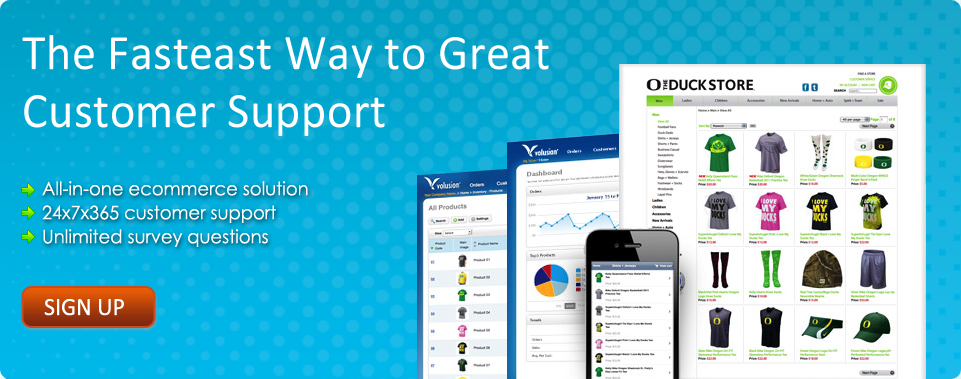
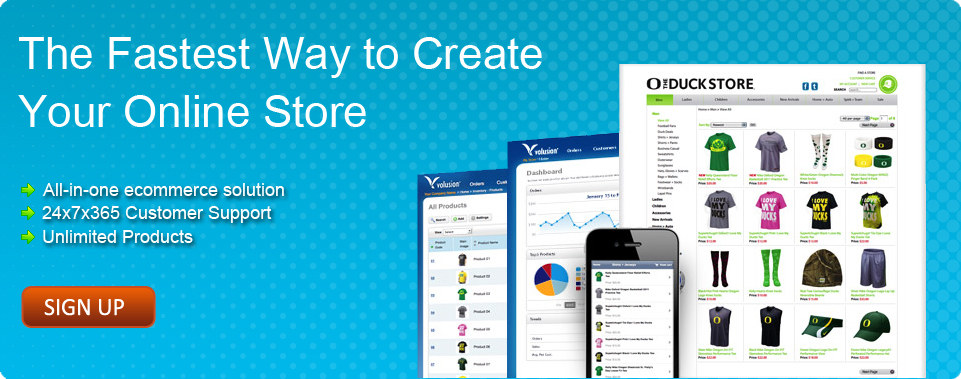
added image and css changes

diff --git a/public/stylesheets/style.css b/public/stylesheets/style.css
@@ -121,7 +121,8 @@ h3 {color: #1B6FB6;font-weight: 400;}
 .footer ul.foo-menu li a { text-decoration:none; color:#000000;}
 
 /* Tabel */
-.table-banner { background:url(../images/table-banner.png) no-repeat 0 0 scroll; height:330px; width:961px;}
+/*.table-banner { background:url(../images/table-banner.png) no-repeat 0 0 scroll; height:330px; width:961px;}*/
+.table-banner { background:url(../images/plan-banner.png) no-repeat 0 0 scroll; height:330px; width:961px;}
 table#price-chart { border-collapse: collapse; margin: -170px 0 15px; padding: 0;}
 table#price-chart th.heading {  width: 168px;}
 table#price-chart th, table#price-chart td { border-right: 1px solid #FFFFFF;  text-align: center;}
